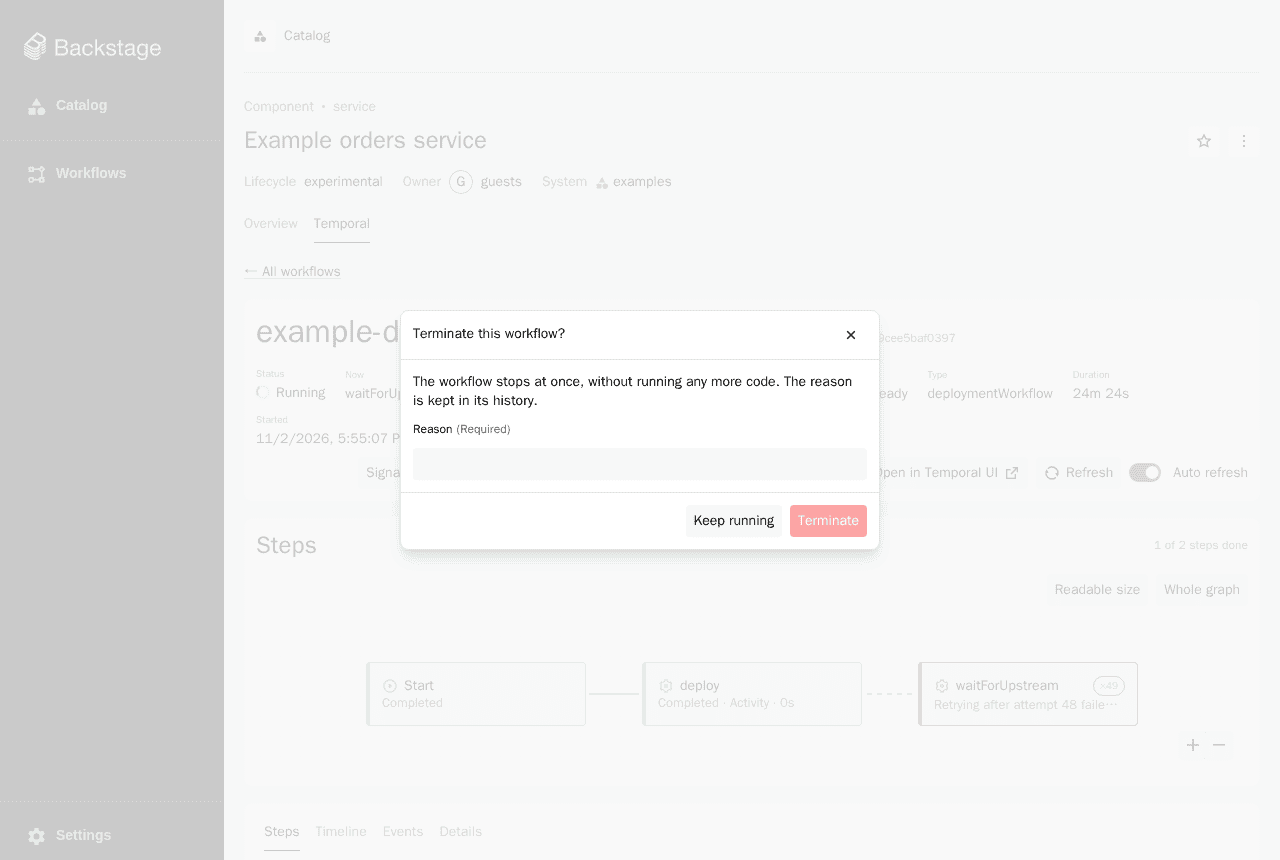
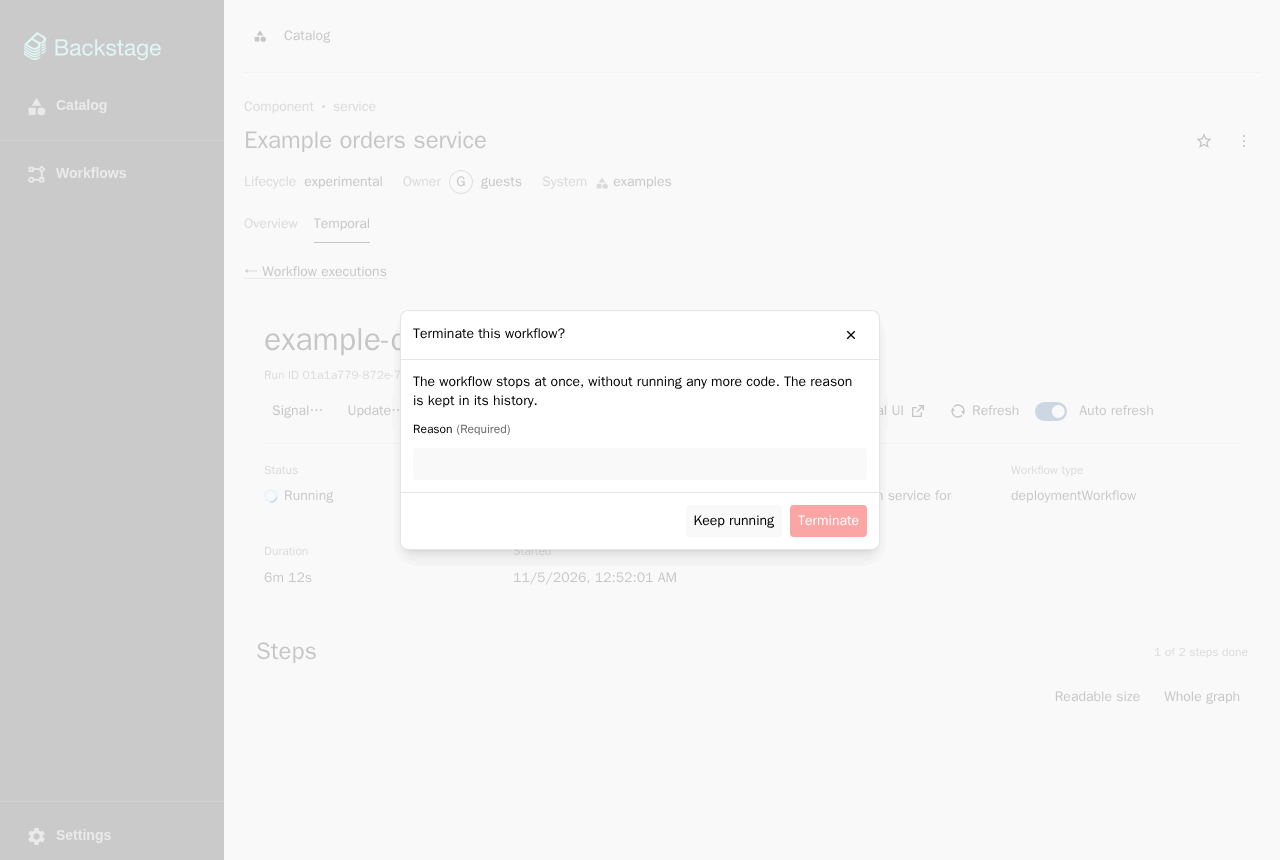
docs: README screenshots of the new details header and loop rounds
Six screenshots in docs/images showed the old header, the round
switcher or the old list columns: entity-tab, details-graph, loop,
llm-graph, controls and s3-payload, taken again on the new frontend
(1280x860, light). The loop caption and the workflow kit README now say
that an expanded loop shows every round in its own frame.

diff --git a/README.md b/README.md
@@ -72,7 +72,7 @@ workflow definition.
 | ---------------------------------------------------------------- | ---------------------------------------------------------------- |
 | ![Workflow list of an entity](docs/images/entity-tab.png)        | ![Step graph with the step panel](docs/images/details-graph.png) |
 | **Timeline**                                                     | **Loop rounds**                                                  |
-| ![Timeline of a loop workflow](docs/images/timeline.png)         | ![A loop expanded to one round](docs/images/loop.png)            |
+| ![Timeline of a loop workflow](docs/images/timeline.png)         | ![A loop expanded, one frame per round](docs/images/loop.png)    |
 | **Large payload in S3**                                          | **Workflow controls**                                            |
 | ![An image stored in S3](docs/images/s3-payload.png)             | ![Terminate dialog](docs/images/controls.png)                    |
 | **A model call and its tool calls**                              | **LLM panel**                                                    |

diff --git a/plugins/temporal-workflow-kit/README.md b/plugins/temporal-workflow-kit/README.md
@@ -202,7 +202,8 @@ the round count into the next run when the workflow continues as new.
 
 The [Backstage Temporal plugin](https://github.com/kwkevinchan/backstage-plugin-temporal/blob/main/plugins/temporal/README.md) reads the markers: the
 step graph shows a loop as one box (`draft-review · Round 4 of 5 · Done`)
-that expands to the steps of one round, and the Loops tab lists every round
+that expands to every round of the run, one frame per round, and the Loops
+tab lists every round
 with its steps, decision and score, across the runs.
 
 `/loop` runs inside workflow code (the workflow sandbox).
